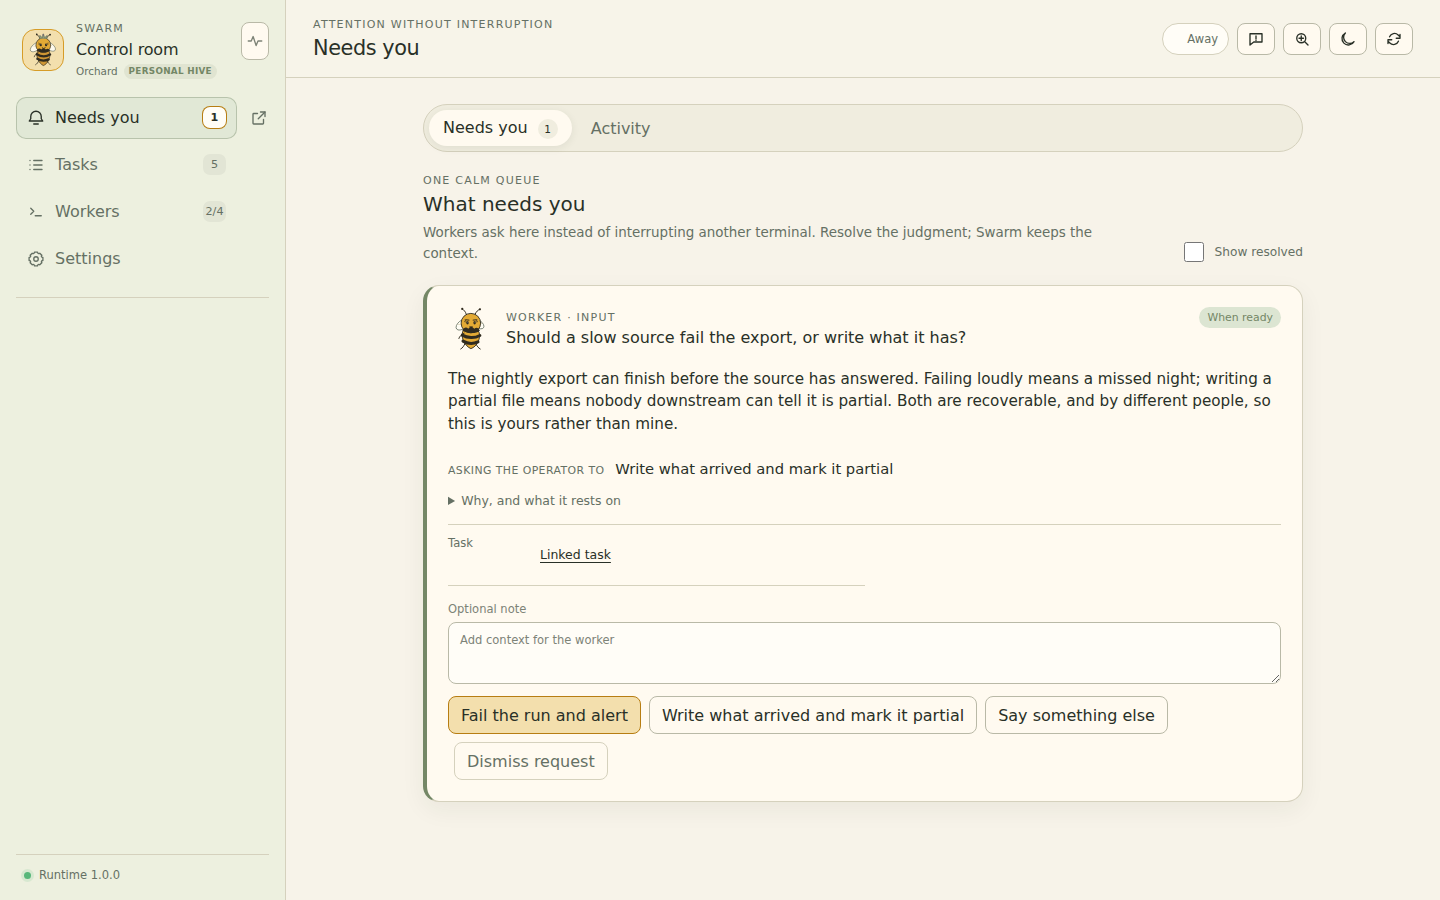
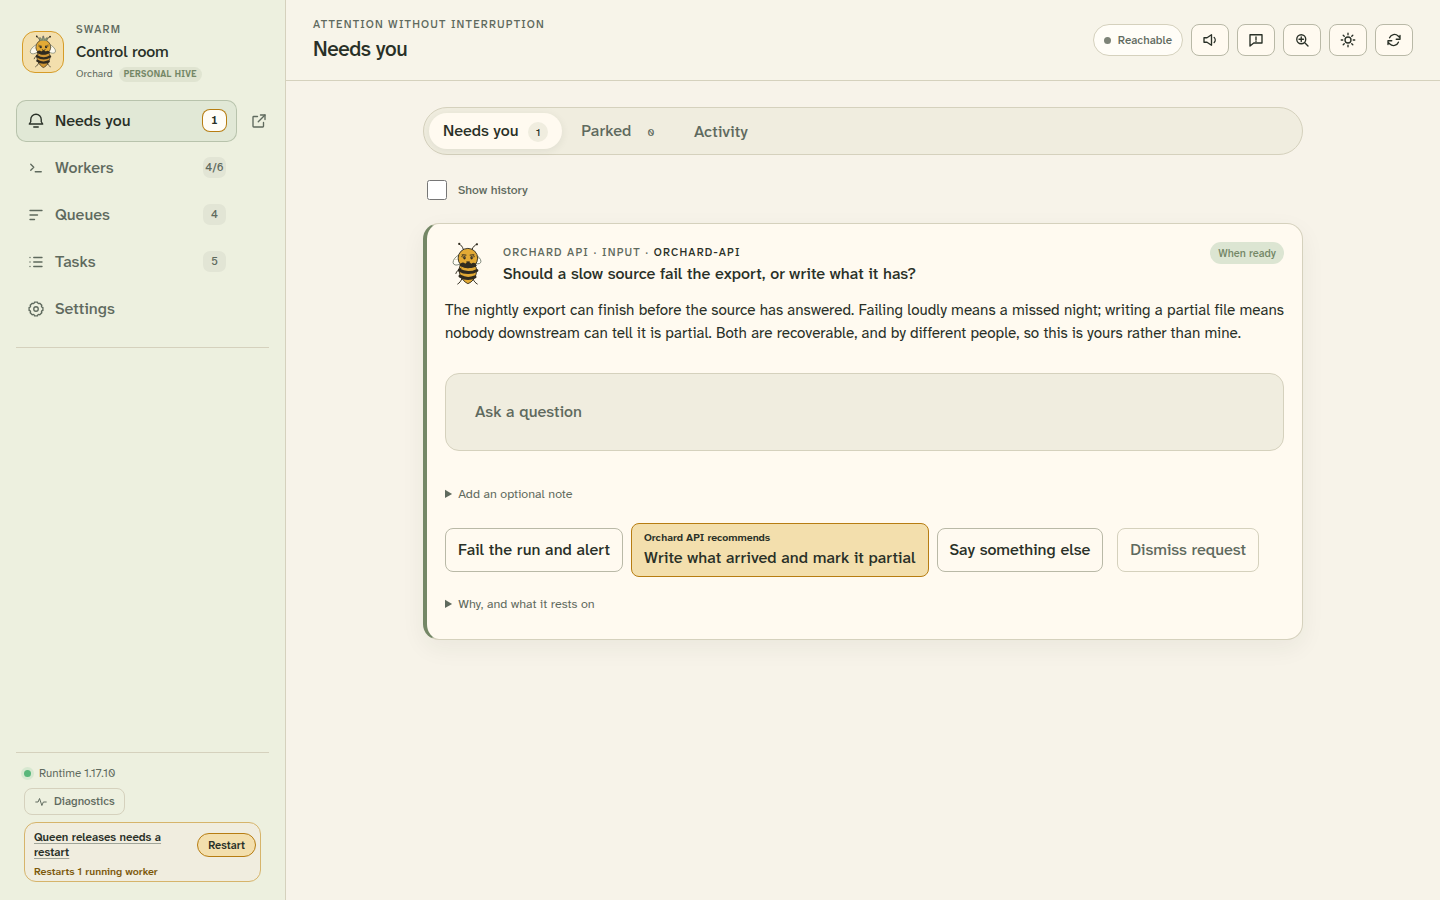
fix: the harness renders with the app's fonts and names its own release
The harness entry loaded styles.css and nothing else the app's entry
loads, so every capture fell back to a system font and an unstyled
terminal. It now imports both Atkinson Hyperlegible fonts and xterm.css
in the app entry's order, and a test compares the two entries' side-effect
imports so they cannot drift apart again.

The fixtures answered /health with 1.0.0 and the Updates card with
1.16.4, whatever the checkout was. The harness config now reads the
version from the workspace Cargo.toml and the fixtures use it, so the
rail's Runtime label names the release a capture was taken from.

The three README screenshots dated from before Queues reached the rail.
They are retaken from the harness at 1440x900, with the alt text and the
guide updated to match: the guide now describes Queues, and no longer
says the worker picture shows an empty terminal.

diff --git a/web/src/harness/hiveFixture.tsx b/web/src/harness/hiveFixture.tsx
@@ -1,6 +1,7 @@
 import { demoDecision, demoTasks, demoWorkers } from "./productFixtures";
 import type { TaskActivityPage } from "../api";
 import { fixtureSettingsRestart } from "./SettingsRestartFixture";
+import { nextMinor } from "./workspaceVersion";
 
 /**
  * Enough of a Hive for the real App to mount against.
@@ -20,6 +21,14 @@ import { fixtureSettingsRestart } from "./SettingsRestartFixture";
  * because it IS the real shell.
  */
 const now = Math.floor(Date.now() / 1000);
+
+/**
+ * The release this checkout is, read from Cargo.toml by vite.harness.config.ts,
+ * so the rail's Runtime label and the Updates card name the release a capture
+ * was taken from. "1.0.0" only where the harness config did not run.
+ */
+const VERSION = import.meta.env.VITE_SWARM_HARNESS_VERSION ?? "1.0.0";
+const OFFERED_VERSION = nextMinor(VERSION);
 
 export function hiveFixture(path: string, query = new URLSearchParams()): unknown | undefined {
   if (path === "/api/v1/decisions" && new URLSearchParams(window.location.search).get("decisionHistory") === "1") return [
@@ -157,14 +166,14 @@ export function hiveFixture(path: string, query = new URLSearchParams()): unknow
   const updatesPending = new URLSearchParams(window.location.search).get("updates") === "pending";
   switch (path) {
     case "/health":
-      return { status: "ok", version: "1.0.0", degraded: [], ...(updatesPending ? { worker_engine_build_id: "engine-new" } : {}) };
+      return { status: "ok", version: VERSION, degraded: [], ...(updatesPending ? { worker_engine_build_id: "engine-new" } : {}) };
     case "/api/v1/runtime/terminal-host":
       return updatesPending
-        ? { type: "host_status", status: { protocol_version: 17, host_version: "1.0.0", host_build_id: "engine-old", draining: false, running_sessions: 8, retained_sessions: 8 } }
+        ? { type: "host_status", status: { protocol_version: 17, host_version: VERSION, host_build_id: "engine-old", draining: false, running_sessions: 8, retained_sessions: 8 } }
         : undefined;
     case "/api/v1/runtime/development":
       return updatesPending
-        ? { enabled: true, version: "1.0.0", state: "idle", reload_available: true, deployed_source_revision: "e46308f51643", source_revision: "f15be478a2c1", source_dirty: false, deployed_source_published: true }
+        ? { enabled: true, version: VERSION, state: "idle", reload_available: true, deployed_source_revision: "e46308f51643", source_revision: "f15be478a2c1", source_dirty: false, deployed_source_published: true }
         : undefined;
     // Answering this at all is what unlocks the app: App.tsx restores a browser
     // session before it will render anything but the token form.
@@ -187,14 +196,14 @@ export function hiveFixture(path: string, query = new URLSearchParams()): unknow
         auto_install: new URLSearchParams(window.location.search).get("autoInstall") !== "off",
         // ?apiaryRequires=autoInstall shows the card as a Hive whose Apiary locks it.
         auto_install_required_by_apiary: new URLSearchParams(window.location.search).get("apiaryRequires") === "autoInstall",
-        current_version: "1.16.4",
+        current_version: VERSION,
         development_build: false,
         last_checked_at: now - 600,
         last_outcome: protocolOffer ? "offered" : "current",
         offer: protocolOffer ? {
-          version: "1.17.0",
+          version: OFFERED_VERSION,
           protocol: "18",
-          artifact_url: "https://releases.example.invalid/swarm-1.17.0-linux-x86_64.tar.gz",
+          artifact_url: `https://releases.example.invalid/swarm-${OFFERED_VERSION}-linux-x86_64.tar.gz`,
           artifact_sha256: "0".repeat(64),
           artifact_bytes: 41_000_000,
           worker_engine_build_id: "1".repeat(64),

diff --git a/web/src/harness/harnessEntry.test.ts b/web/src/harness/harnessEntry.test.ts
@@ -1,0 +1,36 @@
+import { expect, test } from "vitest";
+import cargoToml from "../../../Cargo.toml?raw";
+import appEntry from "../main.tsx?raw";
+import harnessEntry from "./main.tsx?raw";
+import { nextMinor, workspaceVersion } from "./workspaceVersion";
+
+/** Every bare `import "…";` in a module: the ones loaded for their effect. */
+function sideEffectImports(source: string): string[] {
+  return [...source.matchAll(/^import "([^"]+)";$/gm)].map((match) => match[1]);
+}
+
+/**
+ * The harness renders the real components, and they are only the real
+ * components with the stylesheets the app loads. The harness entry once lacked
+ * both fonts and xterm.css, so every capture fell back to a system font and an
+ * unstyled terminal, and the README pictures were taken that way.
+ */
+test("the harness loads every font and stylesheet the app loads, in the app's order", () => {
+  const app = sideEffectImports(appEntry).map((path) => path.replace(/^\.\//, "../"));
+  const harness = sideEffectImports(harnessEntry);
+
+  expect(app.length).toBeGreaterThan(0);
+  expect(harness).toEqual(app);
+});
+
+test("the harness reads the version from the workspace manifest", () => {
+  expect(workspaceVersion(cargoToml)).toMatch(/^\d+\.\d+\.\d+$/);
+  expect(
+    workspaceVersion('[package]\nversion = "0.1.0"\n\n[workspace.package]\nversion = "2.3.4"\nedition = "2024"\n'),
+  ).toBe("2.3.4");
+  expect(() => workspaceVersion('[package]\nversion = "0.1.0"\n')).toThrow();
+});
+
+test("an offered update is newer than the version the harness runs", () => {
+  expect(nextMinor("1.17.10")).toBe("1.18.0");
+});

diff --git a/web/src/harness/workspaceVersion.ts b/web/src/harness/workspaceVersion.ts
@@ -1,0 +1,22 @@
+/**
+ * The workspace's version, as the root Cargo.toml declares it.
+ *
+ * A capture from the harness shows a version in two places: the rail's
+ * "Runtime" label, which reads /health, and the Updates card's current version.
+ * Both were written into the fixtures by hand, so every capture said 1.0.0 or
+ * 1.16.4 whatever the checkout was, and a README picture named a release it was
+ * not taken from. `vite.harness.config.ts` reads Cargo.toml with this and hands
+ * the result to the fixtures, so a capture names its own release.
+ */
+export function workspaceVersion(cargoToml: string): string {
+  const section = cargoToml.split(/^\[/m).find((part) => part.startsWith("workspace.package]"));
+  const version = section?.match(/^version = "(\d+\.\d+\.\d+)"$/m)?.[1];
+  if (!version) throw new Error('Cargo.toml has no [workspace.package] version = "x.y.z"');
+  return version;
+}
+
+/** The minor release after `version`, for a fixture that offers an update. */
+export function nextMinor(version: string): string {
+  const [major, minor] = version.split(".").map(Number);
+  return `${major}.${minor + 1}.0`;
+}

diff --git a/web/vite.harness.config.ts b/web/vite.harness.config.ts
@@ -1,5 +1,7 @@
+import { readFileSync } from "node:fs";
 import react from "@vitejs/plugin-react";
 import { defineConfig, type Plugin } from "vite";
+import { workspaceVersion } from "./src/harness/workspaceVersion";
 
 /**
  * The harness runs on a config that CANNOT reach a Hive.
@@ -69,6 +71,14 @@ function harnessEntryOnly(): Plugin {
 
 export default defineConfig({
   plugins: [react(), harnessEntryOnly()],
+  // The fixtures answer /health and the Updates card with this checkout's own
+  // version, so a capture names the release it shows rather than a number
+  // written into the fixture once and left to age.
+  define: {
+    "import.meta.env.VITE_SWARM_HARNESS_VERSION": JSON.stringify(
+      workspaceVersion(readFileSync(new URL("../Cargo.toml", import.meta.url), "utf8")),
+    ),
+  },
   // Without this, vite's SPA fallback serves index.html for EVERY unmatched
   // path — so blocking "/" and "/index.html" left the production app reachable
   // at /health, /anything, or a typo. Measured: /health returned the product's

diff --git a/web/src/harness/main.tsx b/web/src/harness/main.tsx
@@ -1,6 +1,12 @@
 import { StrictMode } from "react";
 import { createRoot } from "react-dom/client";
 
+// The app's fonts and terminal stylesheet, in src/main.tsx's order, so the
+// components render here as they do in the app. Without them every capture fell
+// back to a system font and an unstyled terminal (harnessEntry.test.ts).
+import "@fontsource-variable/atkinson-hyperlegible-mono";
+import "@fontsource-variable/atkinson-hyperlegible-next";
+import "@xterm/xterm/css/xterm.css";
 import "../styles.css";
 import { hiveFixture } from "./hiveFixture";
 import { FixtureWebSocket, fixtureTranscript } from "./terminalFixture";

diff --git a/web/src/vite-env.d.ts b/web/src/vite-env.d.ts
@@ -7,6 +7,12 @@
  */
 interface ImportMetaEnv {
   readonly VITE_SWARM_BUILD_VERSION?: string;
+  /**
+   * This checkout's version, set by vite.harness.config.ts from Cargo.toml so
+   * the harness fixtures show the release a capture is taken from. Absent in
+   * the app and in tests.
+   */
+  readonly VITE_SWARM_HARNESS_VERSION?: string;
 }
 
 interface ImportMeta {

diff --git a/web/src/raw-assets.d.ts b/web/src/raw-assets.d.ts
@@ -24,3 +24,9 @@ declare module "*.tsx?raw" {
   const source: string;
   export default source;
 }
+
+/** The workspace manifest, read by the harness test for its version. */
+declare module "*.toml?raw" {
+  const source: string;
+  export default source;
+}

diff --git a/docs/using-swarm.md b/docs/using-swarm.md
@@ -10,33 +10,36 @@ at.
 
 ## The screens
 
-The rail on the left is the whole product. You will see four of these; the fifth
-appears only once you federate.
+The rail on the left is the whole product. You will see five of these; the
+sixth appears only once you federate.
 
 **Needs you** — the one queue. Everything waiting on your judgment: a worker's
 question, an email nobody has answered, a Queen review that stopped. Routine
 work never appears here. When it is empty, nothing needs you, and that is the
 answer rather than an absence of one.
 
-![Needs you: one worker question with its three answers, and nothing else competing for attention.](images/needs-you.png)
+![Needs you: one worker question with its answers, the one the worker recommends marked, and nothing else in the queue.](images/needs-you.png)
 
 **Tasks** — the board. Work that survives sessions and restarts. A task carries
 its own description, its state, and who owns it. Tasks come from you, from Jira,
 from an imported email, or from a worker that found follow-up work.
 
-![The task board: five tasks in progress, assigned, ready, review and draft, each showing its owner and the single action available next.](images/tasks.png)
+![The task board: active work in progress, assigned, blocked and in review, each showing its worker and the single action available next.](images/tasks.png)
+
+**Queues** — the same work, grouped by who has the next move: you, Queen or a
+worker, then what is blocked on something else, waiting to ship, or parked on
+purpose. The board says what work exists; Queues says where it is waiting.
 
 **Workers** — the roster and the terminals. Every worker is a real provider
 process in a real repository. Selecting one shows its live terminal; you can
 type into it exactly as you would in a shell.
 
-![The worker roster: four workers buzzing, resting and sleeping, each with the work it holds.](images/workers.png)
+![The Workers screen: the roster on the left, and Orchard Web's terminal working through a redirect loop.](images/workers.png)
 
-The terminal is empty in that picture because these screenshots are taken
-against fixtures rather than a running Hive — there is no real session behind
-them, deliberately. A terminal is an xterm canvas, so unlike the rest of a
-screenshot its contents cannot be redacted; see
-[docs/38](38-looking-at-the-interface.md).
+That session never happened. These screenshots are taken against fixtures
+rather than a running Hive, and the transcript is invented, deliberately: a
+terminal is an xterm canvas, so unlike the rest of a screenshot its contents
+cannot be redacted; see [docs/38](38-looking-at-the-interface.md).
 
 **Apiary** — other Hives. It is not in the rail at all until this Hive
 federates, so on one machine there is nothing here to ignore.

diff --git a/README.md b/README.md
@@ -9,12 +9,12 @@ It installs under your home directory, runs as you, and listens only on
 localhost. There is no server to administer, no container to orchestrate, and no
 account to sign in to.
 
-![The Swarm control room: the rail on the left with Needs you, Tasks, Workers and Settings, and the one queue open, showing a worker asking the operator whether a slow export should fail or write a partial file.](docs/images/needs-you.png)
+![The Swarm control room: the rail on the left with Needs you, Workers, Queues, Tasks and Settings, and Needs you open, showing a worker asking the operator whether a slow export should fail or write a partial file, with the answer it recommends marked.](docs/images/needs-you.png)
 
 Every worker keeps a terminal that survives browser reloads and application
 updates, so you can read what one is doing and take the keyboard at any point.
 
-![A worker's terminal in Swarm: the rail and roster on the left with four workers, and Orchard Web selected, showing its session working through a redirect loop — reading the route and guard, naming the two rules that conflict, and reporting which tests passed and what it did not verify.](docs/images/workers.png)
+![A worker's terminal in Swarm: the rail and roster on the left, and Orchard Web selected, showing its session working through a redirect loop — reading the route and guard, naming the two rules that conflict, and reporting which tests passed and what it did not verify.](docs/images/workers.png)
 
 ## Install it
 

diff --git a/docs/38-looking-at-the-interface.md b/docs/38-looking-at-the-interface.md
@@ -207,6 +207,13 @@ all have to tell one story.
     # then, at 1440x900, select Orchard Web in the roster:
     http://127.0.0.1:5199/harness.html?surface=app&screen=workers
 
+**A capture names the release it was taken from.** The harness config reads the
+version from the workspace `Cargo.toml`, and the fixtures answer `/health` and
+the Updates card with it, so the rail's Runtime label is this checkout's. It
+also loads the app's two fonts and `xterm.css` in `main.tsx`'s order, which a
+test holds it to: the README pictures were once taken without them, in a system
+font with an unstyled terminal, and labelled Runtime 1.0.0.
+
 **Two Needs-you surfaces exist, and the difference matters.** `needs-you` is
 transcribed from the operator's real screen, which is what makes it useful for
 debugging and unpublishable: it carries their name, a real reply, real project
